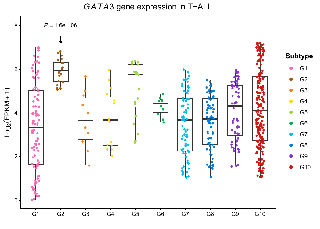
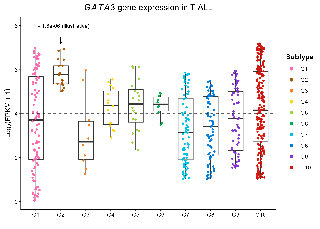
fix(boxplot-jitter): clean public text and repair preview

diff --git a/modules/boxplot-jitter/docs/doc-description.md b/modules/boxplot-jitter/docs/doc-description.md
@@ -1,18 +1,16 @@
 # 箱线抖动散点图
 
-## Purpose
+用箱线和抖动点展示 10 组模拟值。preview 由 organized.R 渲染；数据为 runif 模拟，不是论文结果。 图内固定 P 值仅为排版示例，标注 illustrative，不是根据模拟数据计算的检验结果。
 
-复现 KS 生信绘图课程包「051箱线图+抖动散点」的绘图层。
+## 应用
 
-## Visual structure
+展示箱线与抖动点。
 
-见 `preview.png` 与课程原图；未做出版级视觉审查。
+- 作为该图类型的 R 代码与布局参考。
+- 在确认前不作为论文结果或上游分析复现。
 
-## Recommended use
+## 数据
 
-本地查看该图类型的 ggplot2/R 实现；需要同类布局时可改数据后重跑 `code/organized.R`。
+脚本内 runif 模拟的 10 组值，无外部文件。
 
-## Limitations
-
-- 示例数据来自课程包或脚本内模拟，不是原文分析复现。
-- 本地 Gallery 收录授权仅覆盖课程图代码与布局参考；科学结论与出版级视觉审查未做。
+仅提供绘图示例；上游分析与科学结论未验证。

diff --git a/modules/boxplot-jitter/README.md b/modules/boxplot-jitter/README.md
@@ -1,5 +1,21 @@
 # 箱线抖动散点图
 
-用箱线和抖动点展示 10 组模拟值。preview 由 organized.R 渲染；数据为 runif 模拟，不是论文结果。
+用箱线和抖动点展示 10 组模拟值。preview 由 organized.R 渲染；数据为 runif 模拟，不是论文结果。 图内固定 P 值仅为排版示例，标注 illustrative，不是根据模拟数据计算的检验结果。
 
-This module is an Open Figure Modules submission prepared from a Local Published release. SFL does not execute the code.
+## 应用
+
+展示箱线与抖动点。
+
+- 作为该图类型的 R 代码与布局参考。
+- 在确认前不作为论文结果或上游分析复现。
+
+## 数据
+
+脚本内 runif 模拟的 10 组值，无外部文件。
+
+仅提供绘图示例；上游分析与科学结论未验证。
+
+
+## 运行核验
+
+发布者已使用现有 Pixi R 环境执行本模块绘图入口并检查本次生成预览。仅演示绘图层，未验证上游分析或科学结论。

diff --git a/modules/boxplot-jitter/description.md b/modules/boxplot-jitter/description.md
@@ -1,16 +1,16 @@
 # 箱线抖动散点图
 
-## 需求描述
+用箱线和抖动点展示 10 组模拟值。preview 由 organized.R 渲染；数据为 runif 模拟，不是论文结果。 图内固定 P 值仅为排版示例，标注 illustrative，不是根据模拟数据计算的检验结果。
 
-用箱线和抖动点展示 10 组模拟值。preview 由 organized.R 渲染；数据为 runif 模拟，不是论文结果。
-
-## 应用场景
+## 应用
 
 展示箱线与抖动点。
 
 - 作为该图类型的 R 代码与布局参考。
 - 在确认前不作为论文结果或上游分析复现。
 
-## 数据特征
+## 数据
 
 脚本内 runif 模拟的 10 组值，无外部文件。
+
+仅提供绘图示例；上游分析与科学结论未验证。
